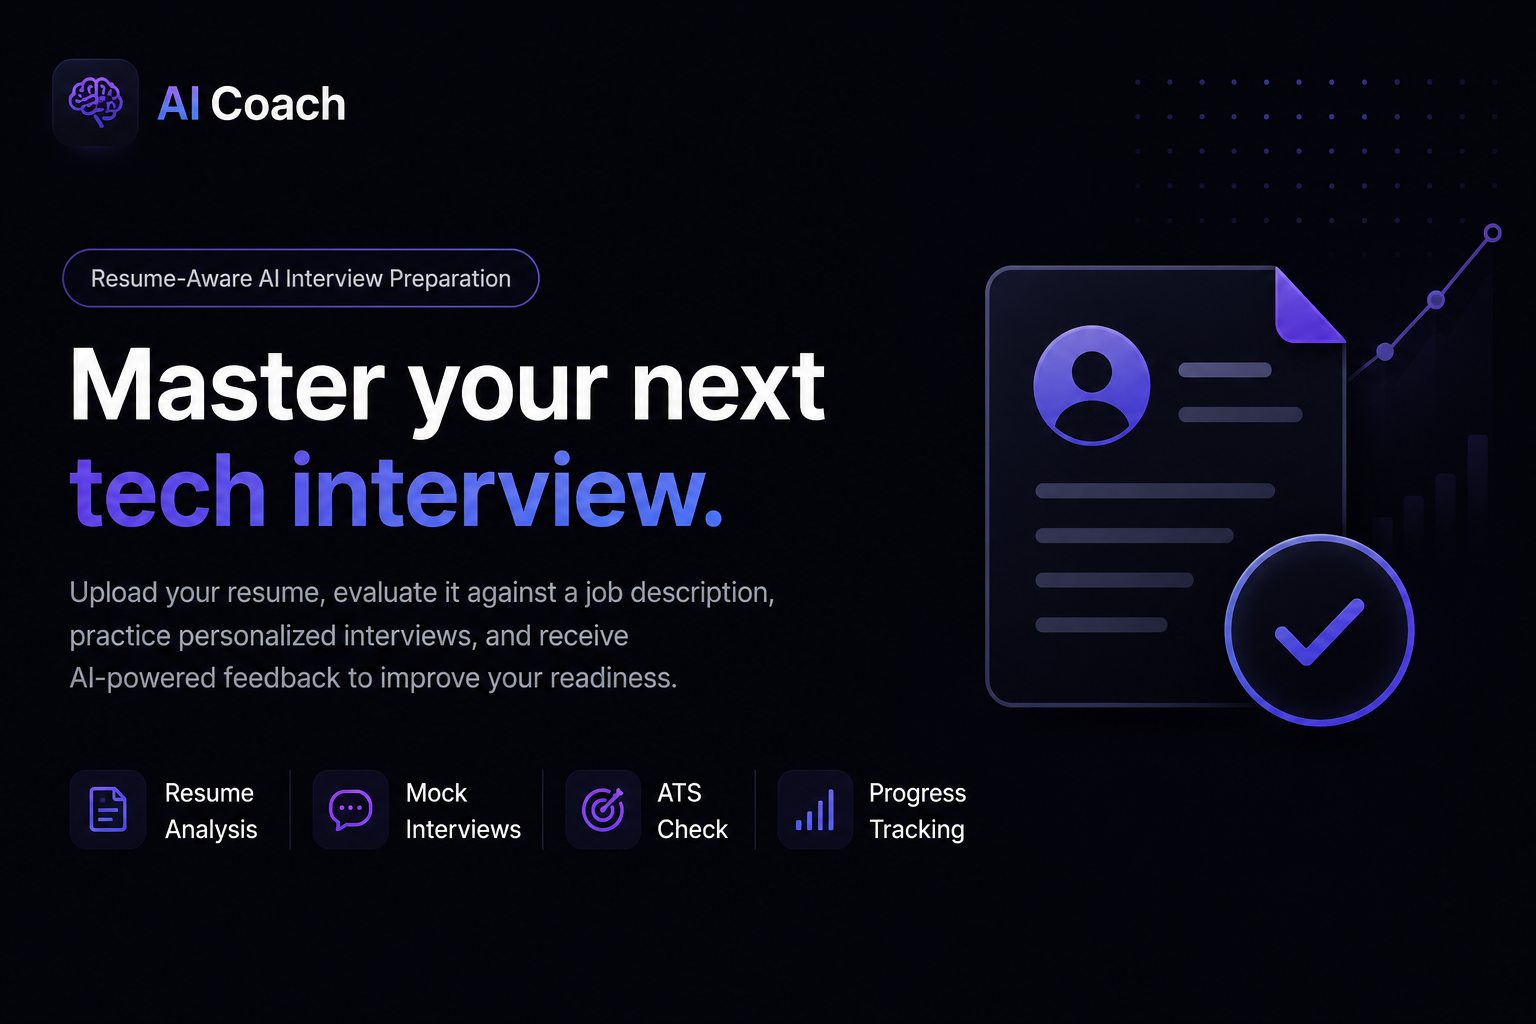
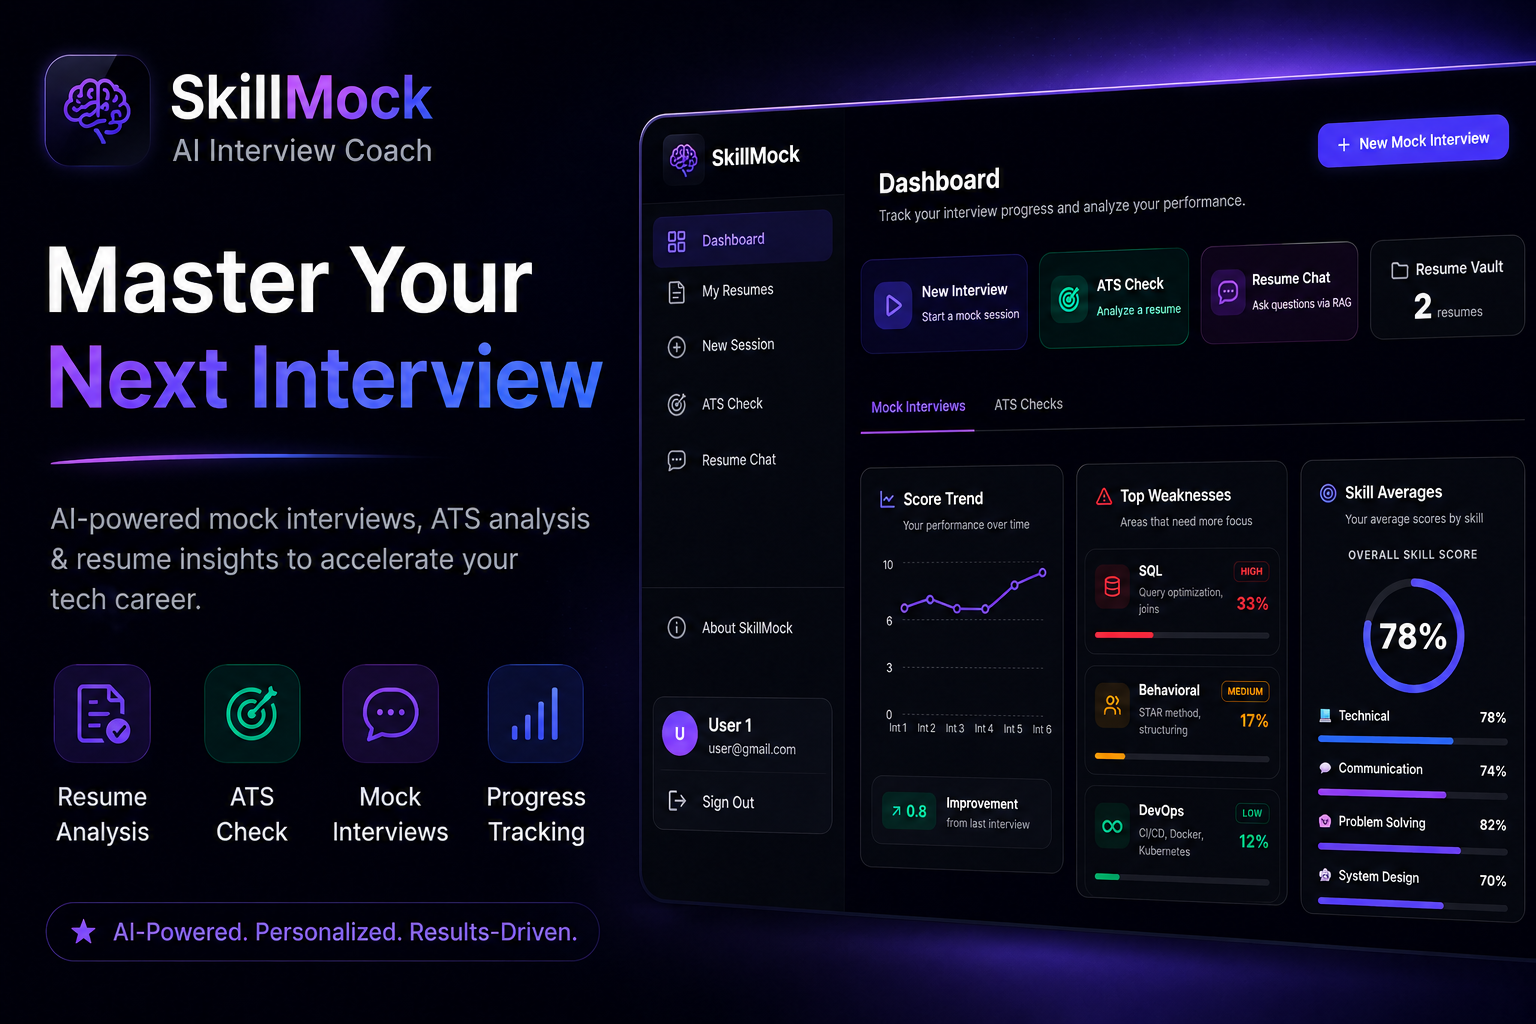
improved SEO and updated project branding assets

diff --git a/frontend/app/sitemap.ts b/frontend/app/sitemap.ts
@@ -1,0 +1,30 @@
+import { MetadataRoute } from 'next'
+ 
+export default function sitemap(): MetadataRoute.Sitemap {
+  return [
+    {
+      url: 'https://skillmock.vercel.app',
+      lastModified: new Date(),
+      changeFrequency: 'weekly',
+      priority: 1,
+    },
+    {
+      url: 'https://skillmock.vercel.app/about',
+      lastModified: new Date(),
+      changeFrequency: 'monthly',
+      priority: 0.8,
+    },
+    {
+      url: 'https://skillmock.vercel.app/login',
+      lastModified: new Date(),
+      changeFrequency: 'yearly',
+      priority: 0.5,
+    },
+    {
+      url: 'https://skillmock.vercel.app/register',
+      lastModified: new Date(),
+      changeFrequency: 'yearly',
+      priority: 0.5,
+    },
+  ]
+}

diff --git a/frontend/app/layout.tsx b/frontend/app/layout.tsx
@@ -8,10 +8,31 @@ import { RateLimitProvider } from "@/components/providers/RateLimitProvider";
 const inter = Inter({ subsets: ["latin"] });
 
 export const metadata: Metadata = {
-  metadataBase: new URL(process.env.NEXT_PUBLIC_APP_URL || "http://localhost:3000"),
-  title: "SkillMock — AI Interview Coach",
+  metadataBase: new URL(process.env.NEXT_PUBLIC_APP_URL || "https://skillmock.vercel.app"),
+  title: {
+    default: "SkillMock — Resume-Aware AI Interview Coach",
+    template: "%s | SkillMock"
+  },
   description:
-    "AI-powered interview preparation tailored to your resume and career goals. ATS analysis, mock interviews, and Resume Chat.",
+    "AI-powered interview preparation tailored to your resume and career goals. Get personalized ATS analysis, realistic mock interviews, and actionable AI feedback.",
+  keywords: ["AI interview", "mock interview", "resume analysis", "ATS checker", "interview prep", "job preparation", "RAG", "AI coach", "SkillMock"],
+  authors: [{ name: "SkillMock Team" }],
+  creator: "SkillMock",
+  publisher: "SkillMock",
+  robots: {
+    index: true,
+    follow: true,
+    googleBot: {
+      index: true,
+      follow: true,
+      'max-video-preview': -1,
+      'max-image-preview': 'large',
+      'max-snippet': -1,
+    },
+  },
+  alternates: {
+    canonical: "https://skillmock.vercel.app"
+  },
   openGraph: {
     title: "SkillMock — AI Interview Coach",
     description:

diff --git a/frontend/app/robots.ts b/frontend/app/robots.ts
@@ -1,0 +1,12 @@
+import { MetadataRoute } from 'next'
+ 
+export default function robots(): MetadataRoute.Robots {
+  return {
+    rules: {
+      userAgent: '*',
+      allow: '/',
+      disallow: ['/api/', '/dashboard/', '/upload/', '/resumes/', '/interview/', '/analysis/'],
+    },
+    sitemap: 'https://skillmock.vercel.app/sitemap.xml',
+  }
+}